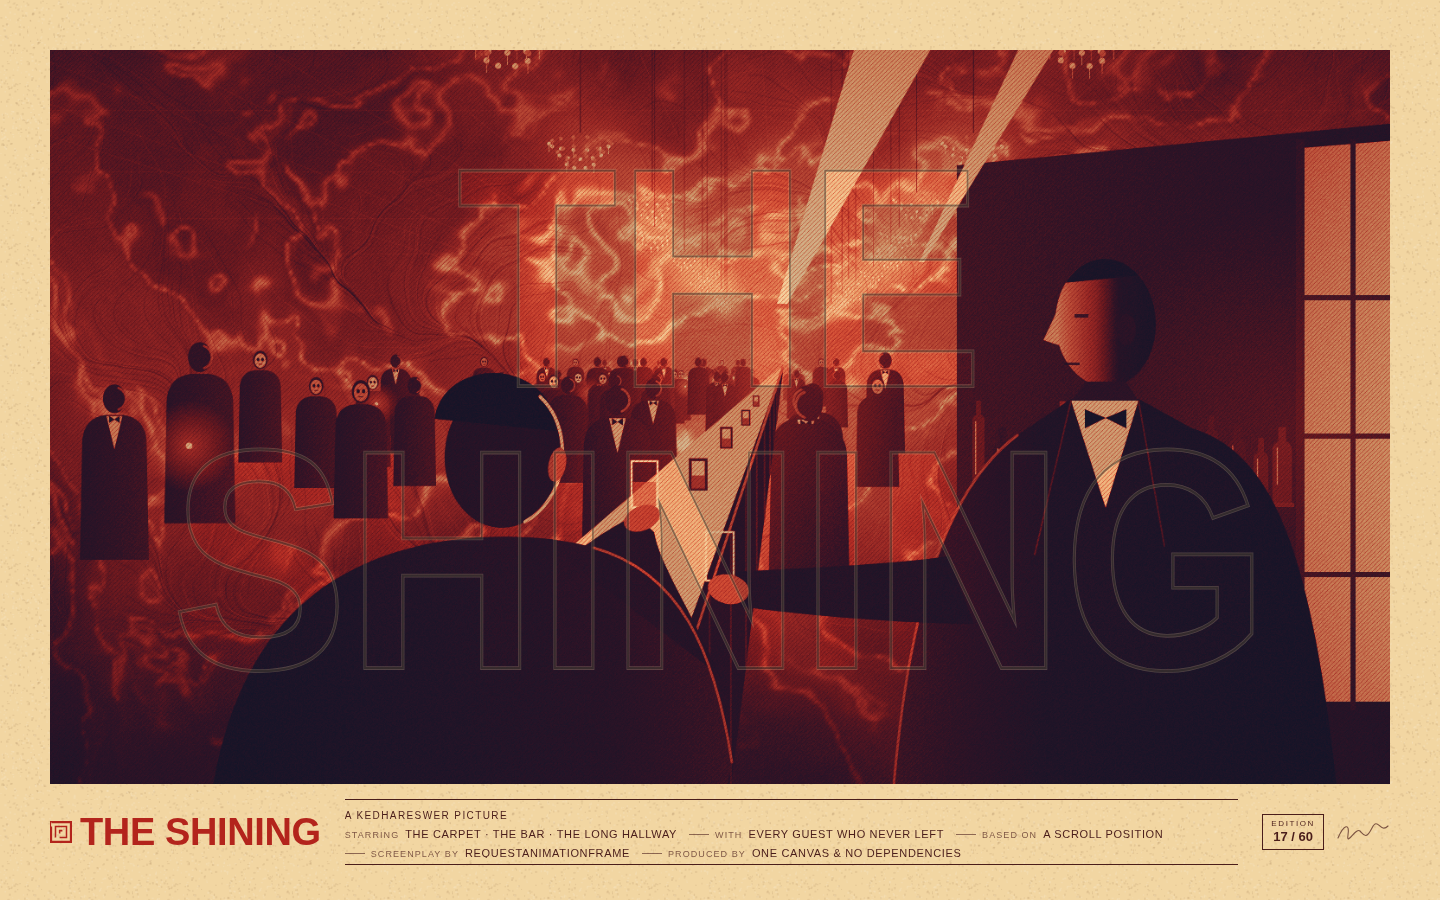
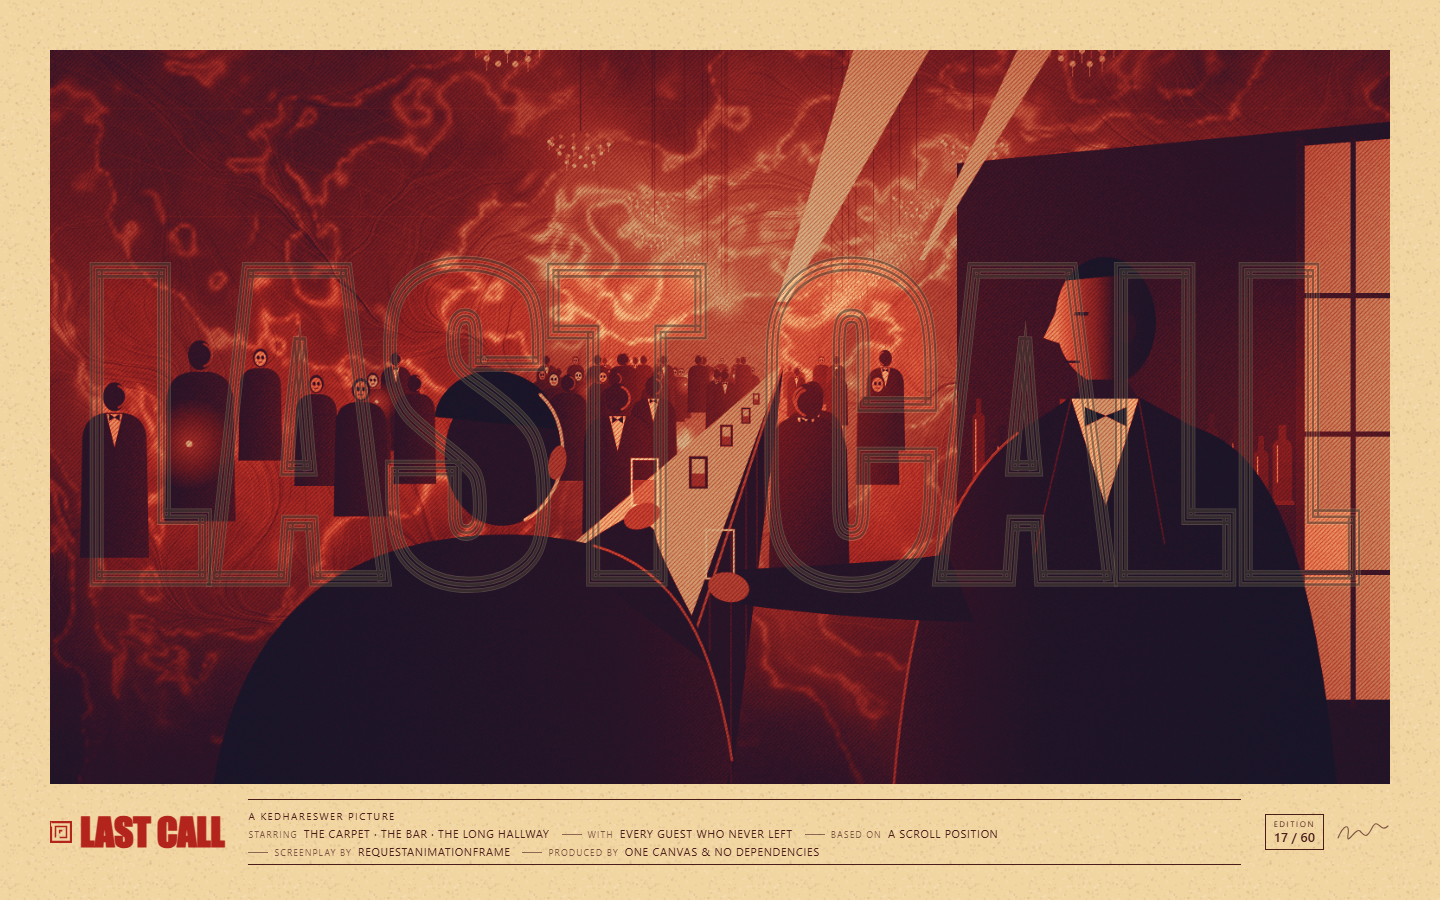
overlook-title-reveal: default title LAST CALL; add gothic-stamp-deck cover

diff --git a/components/overlook-title-reveal/overlook-title-reveal.tsx b/components/overlook-title-reveal/overlook-title-reveal.tsx
@@ -775,7 +775,7 @@ function scrollParent(el: HTMLElement | null): HTMLElement | null {
 }
 
 export default function OverlookTitleReveal({
-  title = "THE SHINING",
+  title = "LAST CALL",
   image,
   duotone = true,
   palette = DEFAULT_PALETTE,

diff --git a/components/overlook-title-reveal/README.md b/components/overlook-title-reveal/README.md
@@ -62,7 +62,7 @@ content after it.
 
 | Prop | Default | Notes |
 |---|---|---|
-| `title` | `"THE SHINING"` | `\n` forces breaks. Otherwise it picks the word grouping that sets largest (so it breaks to two lines in portrait). |
+| `title` | `"LAST CALL"` | `\n` forces breaks. Otherwise it picks the word grouping that sets largest (so it breaks to two lines in portrait). |
 | `image` | none | Your own picture, cover-fit. With no `image`, it paints the ballroom. |
 | `duotone` | `true` | Gradient-map `image` through `palette`. This needs the host to send CORS headers; without them the picture is shown as it is. |
 | `palette` | 7 stops, navy → red → cream | Hex, 2 to 8 stops, shadow to highlight. The first stop is also the dimming colour. |
